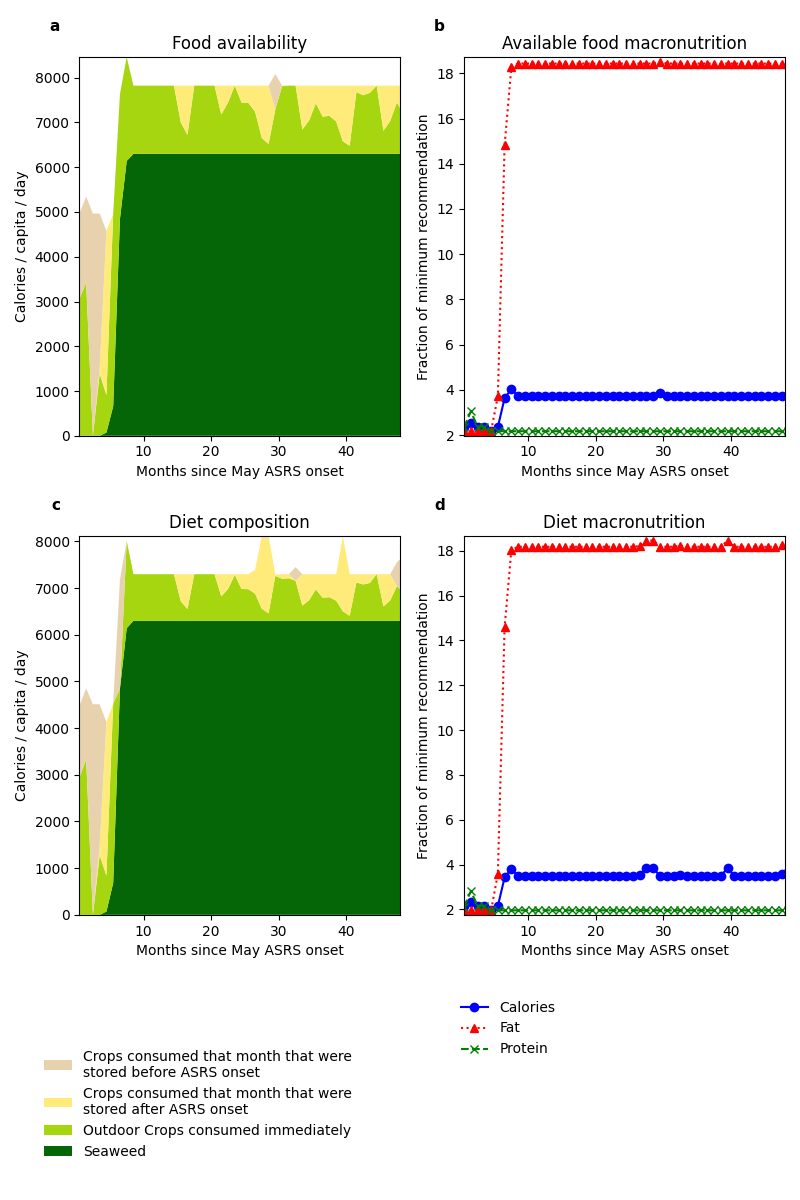
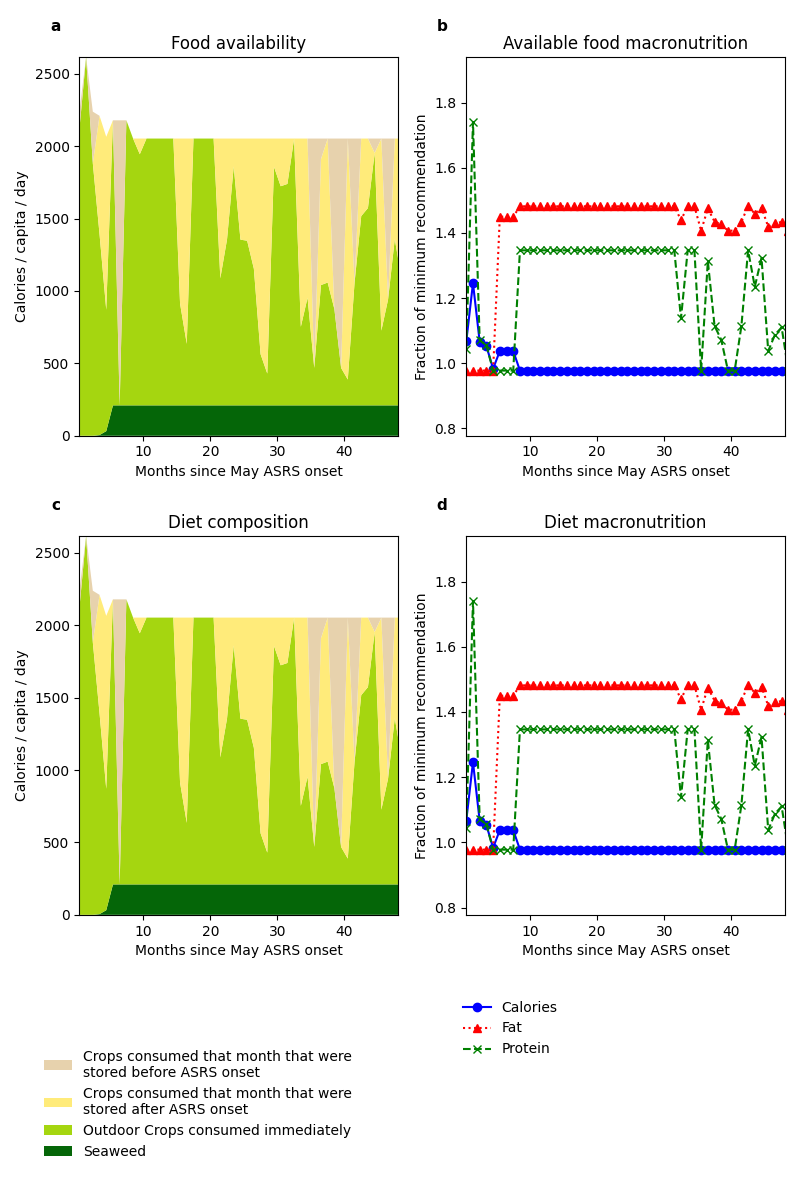
returned to normal seaweed percentage

diff --git a/src/food_system/seaweed.py b/src/food_system/seaweed.py
@@ -13,7 +13,7 @@ class Seaweed:
         self.MINIMUM_DENSITY = 400  # tons/km^2 (seaweed)
         self.MAXIMUM_DENSITY = 800  # tons/km^2 (seaweed)
         self.MAXIMUM_AREA = 1000  # 1000 km^2 (seaweed)
-
+        
         # use "laver" variety for now from nutrition calculator
         # https://docs.google.com/spreadsheets/d / 1RZqSrHNiIEuPQLtx1ebCd_kUcFvEF6Ea46xyzA5wU0s/edit#gid=1516287804
         self.WET_TO_DRY_MASS_CONVERSION = 1 / 6
@@ -66,8 +66,6 @@ class Seaweed:
         SEAWEED_NEW_AREA_PER_MONTH = \
             inputs_to_optimizer['SEAWEED_NEW_AREA_PER_MONTH']
 
-        SEAWEED_PRODUCTION_RATE = inputs_to_optimizer['SEAWEED_PRODUCTION_RATE']
-
         if(inputs_to_optimizer["ADD_SEAWEED"]):
             sd = [self.INITIAL_AREA] \
                  * inputs_to_optimizer["DELAY"]["SEAWEED_MONTHS"]
@@ -86,12 +84,12 @@ class Seaweed:
         )
         built_area_long[built_area_long > self.MAXIMUM_AREA] = self.MAXIMUM_AREA
 
-        # reduce list to small size
+        # reduce list to length of months of simulation
         built_area = built_area_long[0:self.NMONTHS]
 
-        import matplotlib.pyplot as plt
+        # import matplotlib.pyplot as plt
 
-        plt.plot(built_area)
-        plt.show()
+        # plt.plot(built_area)
+        # plt.show()
 
         return built_area

diff --git a/src/optimizer/optimizer.py b/src/optimizer/optimizer.py
@@ -229,8 +229,9 @@ class Optimizer:
                       "Seaweed_Food_Produced_Month_0_Constraint")
 
         else:  # later Months
-            model += (variables["seaweed_wet_on_farm"][month] <= variables["used_area"]
-                      [month] * self.single_valued_constants["MAXIMUM_DENSITY"])
+            model += (variables["seaweed_wet_on_farm"][month] \
+                      <= variables["used_area"][month] \
+                         * self.single_valued_constants["MAXIMUM_DENSITY"])
 
             model += (variables["seaweed_wet_on_farm"][month] ==
                       variables["seaweed_wet_on_farm"][month-1] *

diff --git a/src/scenarios/scenarios.py b/src/scenarios/scenarios.py
@@ -627,7 +627,7 @@ class Scenarios:
         inputs_to_optimizer['INCLUDE_PROTEIN'] = True
         inputs_to_optimizer['INCLUDE_FAT'] = True
 
-        inputs_to_optimizer['MAX_SEAWEED_AS_PERCENT_KCALS'] = 300
+        inputs_to_optimizer['MAX_SEAWEED_AS_PERCENT_KCALS'] = 10
 
         # units: 1000 km^2
         inputs_to_optimizer['SEAWEED_NEW_AREA_PER_MONTH'] = 2.0765*30  
